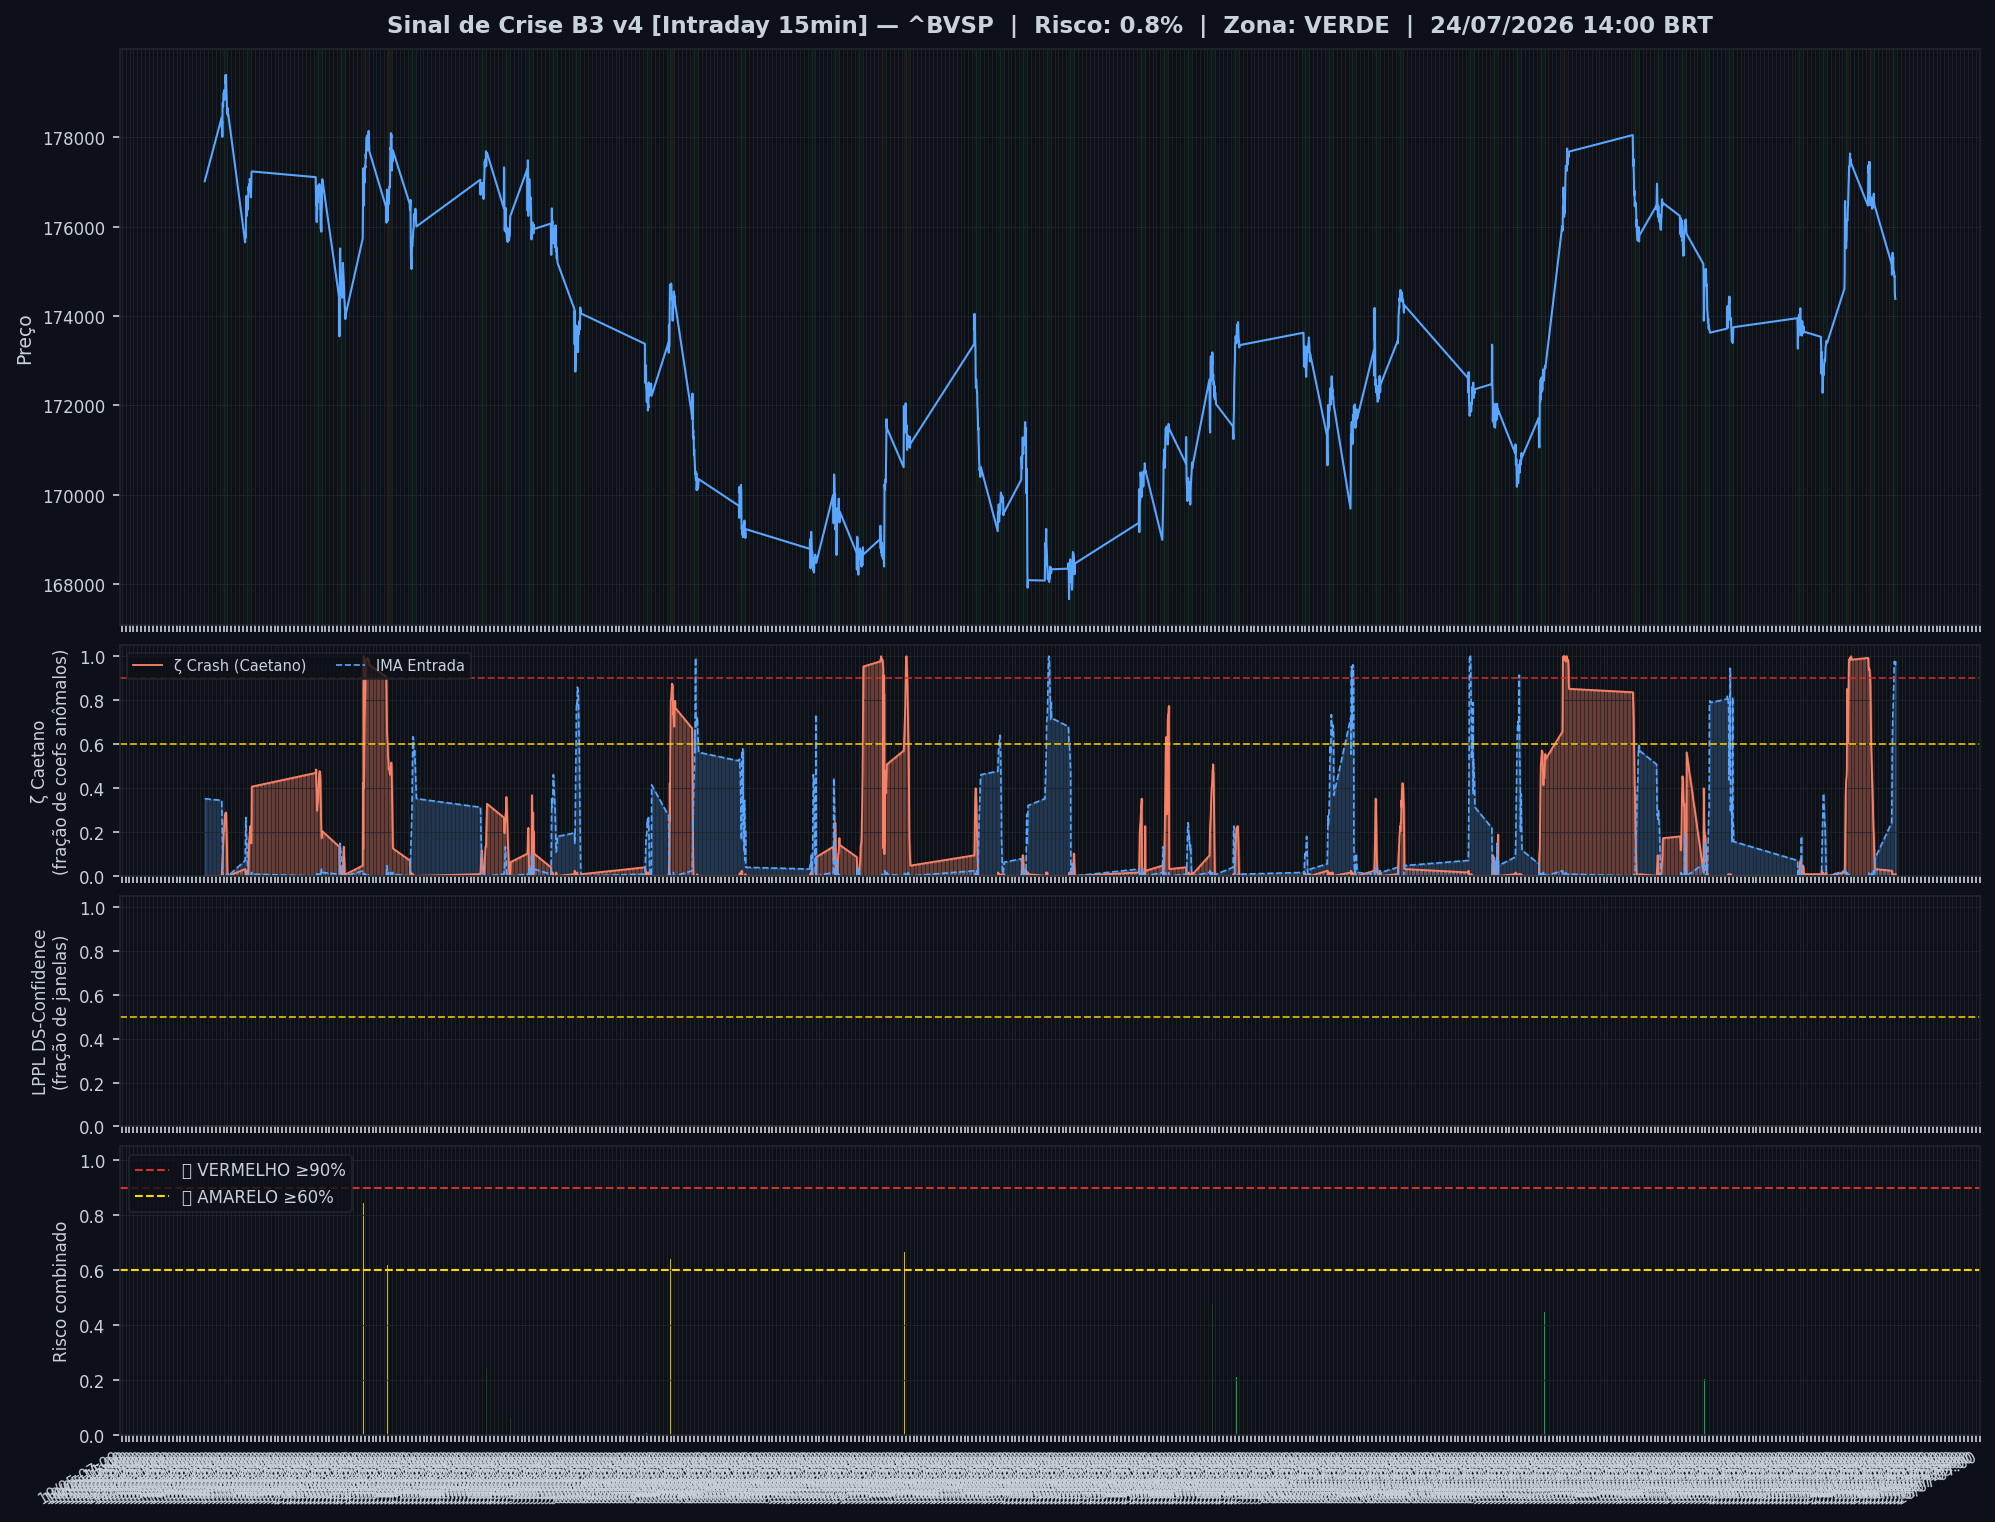
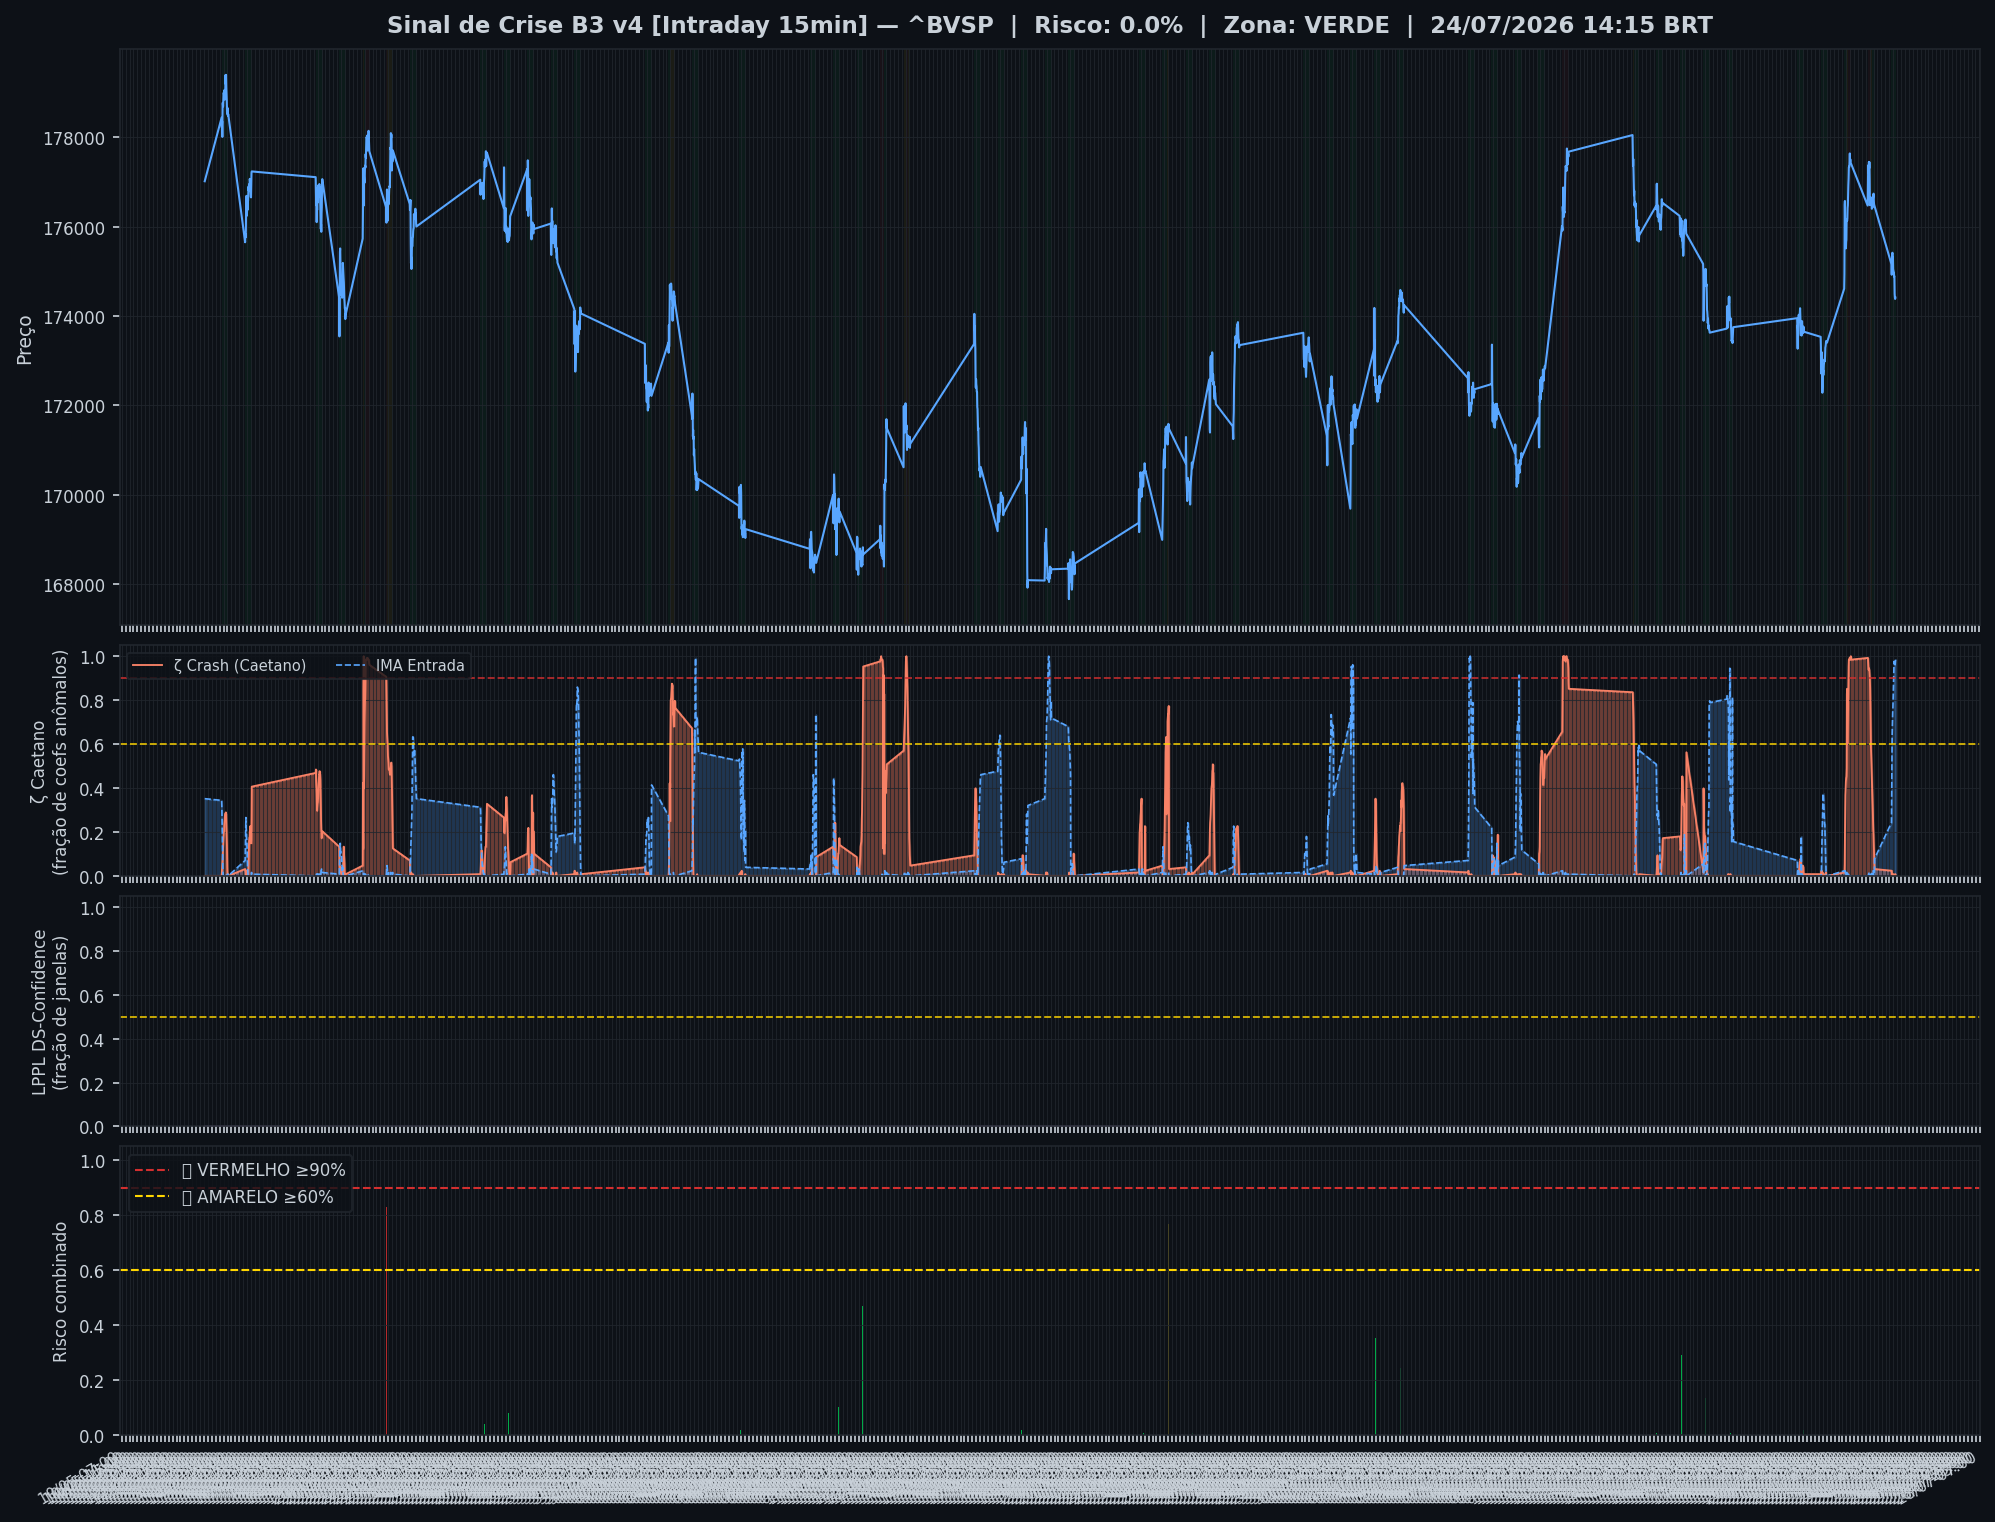
🤖 Auto: Sinal 24/07/2026 15:00

diff --git a/content/intraday/2026-07-24.md b/content/intraday/2026-07-24.md
@@ -1,20 +1,20 @@
 ---
-title: "🟢 Intraday 24/07/2026 14:00 BRT — VERDE"
+title: "🟢 Intraday 24/07/2026 14:15 BRT — VERDE"
 date: 2026-07-24
 tags: [intraday]
 ---
 
-> [!success] 🟢 **VERDE** — Risco 1% · ＝ +0 p.p. vs leitura anterior
+> [!success] 🟢 **VERDE** — Risco 0% · ▼ -1 p.p. vs leitura anterior
 > `░░░░░░░░░░░░░░░░░░░░`
 > Mercado sem sinais relevantes de estresse.
 
 
 | Indicador | Valor |
 |---|---|
-| 🔴 ζ Crash — severidade da queda em curso | **1%** |
+| 🔴 ζ Crash — severidade da queda em curso | **0%** |
 | 🔵 ζ Entrada — estrutura de fundo | 98% |
 | 🫧 LPPL DS-Confidence | 0% |
-| 📊 Ibovespa | 174.383 pts |
+| 📊 Ibovespa | 174.415 pts |
 
 ![Gráfico do sinal](../graficos/sinal_intraday.png)
 
@@ -22,6 +22,7 @@ tags: [intraday]
 
 | Data | Zona | Risco | IMA Crash | Entrada | LPPL |
 |---|---|---|---|---|---|
+| 2026-07-24 14:15 | 🟢 VERDE | **0%** | 0% | 98% | 0% |
 | 2026-07-24 14:00 | 🟢 VERDE | **1%** | 1% | 98% | 0% |
 | 2026-07-24 13:45 | 🟢 VERDE | **1%** | 1% | 96% | 0% |
 | 2026-07-24 13:30 | 🟢 VERDE | **0%** | 0% | 97% | 0% |
@@ -51,7 +52,6 @@ tags: [intraday]
 | 2026-07-23 14:30 | 🟢 VERDE | **35%** | 35% | 0% | 0% |
 | 2026-07-23 14:15 | 🟢 VERDE | **40%** | 40% | 0% | 0% |
 | 2026-07-23 14:00 | 🟢 VERDE | **43%** | 43% | 0% | 0% |
-| 2026-07-23 13:45 | 🟡 AMARELO | **48%** | 48% | 0% | 0% |
 
 ## Monitor Multi-Ativo
 
@@ -59,37 +59,37 @@ tags: [intraday]
 
 | Zona | Ativo | Setor | IMA Crash | IMA Entrada |
 |---|---|---|---|---|
-| 🟢 | **USD/BRL** | Câmbio | 14.8% | 7.0% |
+| 🟢 | **USD/BRL** | Câmbio | 19.5% | 0.0% |
+| 🟢 | **PETROBRAS** | Petróleo | 14.8% | 7.0% |
+| 🟢 | **BRADESCO** | Financeiro | 14.8% | 7.0% |
+| 🟢 | **SABESP** | Saneamento | 14.8% | 7.0% |
+| 🟢 | **B3** | Financeiro | 14.8% | 7.0% |
+| 🟢 | **AMBEV S/A** | Consumo | 14.8% | 7.0% |
+| 🟢 | **WEG** | Industrial | 14.8% | 7.0% |
+| 🟢 | **BRASIL** | Financeiro | 14.8% | 7.0% |
+| 🟢 | **COPEL** | Energia | 14.8% | 7.0% |
+| 🟢 | **VIBRA** | Energia | 14.8% | 7.0% |
+| 🟢 | **REDE D OR** | Saúde | 14.8% | 7.0% |
+| 🟢 | **LOCALIZA** | Aluguel | 14.8% | 7.0% |
+| 🟢 | **ULTRAPAR** | Outros | 14.8% | 7.0% |
+| 🟢 | **SUZANO S.A.** | Papel/Celulose | 14.8% | 7.0% |
+| 🟢 | **TELEF BRASIL** | Outros | 14.8% | 7.0% |
 | 🟢 | **VALE** | Mineração | 12.5% | 14.1% |
 | 🟢 | **ITAUUNIBANCO** | Financeiro | 12.5% | 14.1% |
 | 🟢 | **AXIA ENERGIA** | Energia | 12.5% | 14.1% |
-| 🟢 | **BRADESCO** | Financeiro | 12.5% | 14.1% |
-| 🟢 | **SABESP** | Saneamento | 12.5% | 14.1% |
-| 🟢 | **B3** | Financeiro | 12.5% | 14.1% |
-| 🟢 | **WEG** | Industrial | 12.5% | 14.1% |
-| 🟢 | **BRASIL** | Financeiro | 12.5% | 14.1% |
+| 🟢 | **PETROBRAS** | Petróleo | 12.5% | 14.1% |
+| 🟢 | **ITAUSA** | Financeiro | 12.5% | 14.1% |
+| 🟢 | **BTGP BANCO** | Financeiro | 12.5% | 14.1% |
+| 🟢 | **EMBRAER** | Outros | 12.5% | 14.1% |
+| 🟢 | **ENEVA** | Energia | 12.5% | 14.1% |
+| 🟢 | **EQUATORIAL** | Energia | 12.5% | 14.1% |
 | 🟢 | **PRIO** | Petróleo | 12.5% | 14.1% |
-| 🟢 | **COPEL** | Energia | 12.5% | 14.1% |
-| 🟢 | **VIBRA** | Energia | 12.5% | 14.1% |
-| 🟢 | **REDE D OR** | Saúde | 12.5% | 14.1% |
-| 🟢 | **LOCALIZA** | Aluguel | 12.5% | 14.1% |
-| 🟢 | **ULTRAPAR** | Outros | 12.5% | 14.1% |
 | 🟢 | **GERDAU** | Siderurgia | 12.5% | 14.1% |
 | 🟢 | **BBSEGURIDADE** | Financeiro | 12.5% | 14.1% |
-| 🟢 | **SUZANO S.A.** | Papel/Celulose | 12.5% | 14.1% |
-| 🟢 | **PETROBRAS** | Petróleo | 9.4% | 18.8% |
-| 🟢 | **PETROBRAS** | Petróleo | 9.4% | 18.8% |
-| 🟢 | **ITAUSA** | Financeiro | 9.4% | 18.8% |
-| 🟢 | **AMBEV S/A** | Consumo | 9.4% | 18.8% |
-| 🟢 | **BTGP BANCO** | Financeiro | 9.4% | 18.8% |
-| 🟢 | **EMBRAER** | Outros | 9.4% | 18.8% |
-| 🟢 | **ENEVA** | Energia | 9.4% | 18.8% |
-| 🟢 | **EQUATORIAL** | Energia | 9.4% | 18.8% |
-| 🟢 | **TELEF BRASIL** | Outros | 9.4% | 18.8% |
 
 ![Monitor multi-ativo](../graficos/multi_intraday.png)
 
-*Página atualizada em 24/07/2026 14:45 BRT (leitura da barra de 2026-07-24 14:00 BRT).*
+*Página atualizada em 24/07/2026 15:00 BRT (leitura da barra de 2026-07-24 14:15 BRT).*
 
 > [!info]- Como interpretar (clique para expandir)
 > - **ζ Crash**: fração dos coeficientes wavelet acima do corte (Caetano & Yoneyama 2009). Escala absoluta: ζ=0,90 = 90% dos coeficientes anômalos — historicamente, quedas com ζ≥0,90 foram mais fundas e mais longas. **Mede a severidade do movimento em curso, não prevê o início da queda.**

diff --git a/content/index.md b/content/index.md
@@ -8,19 +8,19 @@ tags: [home]
 
 Monitoramento diário e intraday do Ibovespa — **IMA Wavelet** (Prof. Marco Antonio Leonel Caetano, ITA/INSPER) + **LPPL DS-Confidence** (Prof. Didier Sornette, ETH-Zurich).
 
-*Última atualização: 24/07/2026 14:45 BRT · ^BVSP · Intraday 15min · v4*
+*Última atualização: 24/07/2026 15:00 BRT · ^BVSP · Intraday 15min · v4*
 
-> [!success] 🟢 **VERDE** — Risco 1% · ＝ +0 p.p. vs leitura anterior
+> [!success] 🟢 **VERDE** — Risco 0% · ▼ -1 p.p. vs leitura anterior
 > `░░░░░░░░░░░░░░░░░░░░`
 > Mercado sem sinais relevantes de estresse.
 
 
 | Indicador | Valor |
 |---|---|
-| 🔴 ζ Crash — severidade da queda em curso | **1%** |
+| 🔴 ζ Crash — severidade da queda em curso | **0%** |
 | 🔵 ζ Entrada — estrutura de fundo | 98% |
 | 🫧 LPPL DS-Confidence | 0% |
-| 📊 Ibovespa | 174.383 pts |
+| 📊 Ibovespa | 174.415 pts |
 
 **Multi-ativo:** 0% em tensão (0🔴 0🟡 de 27 ativos)
 
@@ -32,7 +32,7 @@ Monitoramento diário e intraday do Ibovespa — **IMA Wavelet** (Prof. Marco An
 
 | Data | Zona | Risco | IMA | LPPL |
 |---|---|---|---|---|
-| [24 Jul 2026](diario/2026-07-24) | 🟢 VERDE | **1%** | 1% | 0% |
+| [24 Jul 2026](diario/2026-07-24) | 🟢 VERDE | **0%** | 0% | 0% |
 | [23 Jul 2026](diario/2026-07-23) | 🟢 VERDE | **3%** | 3% | 0% |
 
 ## Navegação

diff --git a/content/historico.md b/content/historico.md
@@ -7,6 +7,7 @@ tags: [historico]
 
 | Data | Modo | Zona | Risco | IMA | LPPL |
 |---|---|---|---|---|---|
+| 2026-07-24 14:15 | intraday | 🟢 VERDE | 0% | 0% | 0% |
 | 2026-07-24 14:00 | intraday | 🟢 VERDE | 1% | 1% | 0% |
 | 2026-07-24 13:45 | intraday | 🟢 VERDE | 1% | 1% | 0% |
 | 2026-07-24 13:30 | intraday | 🟢 VERDE | 0% | 0% | 0% |
